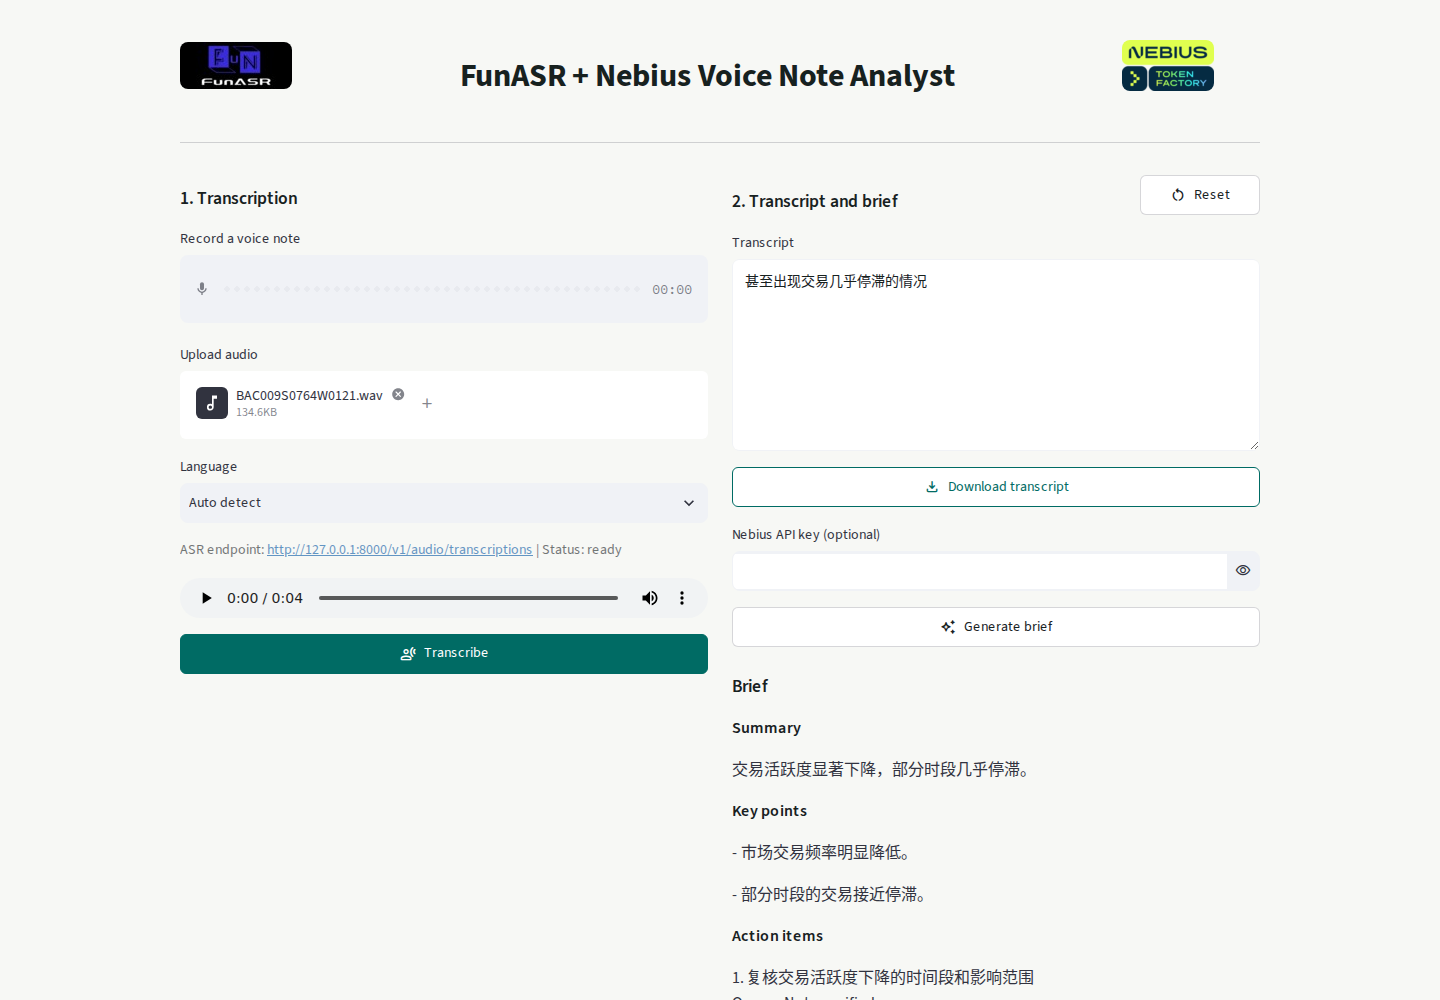
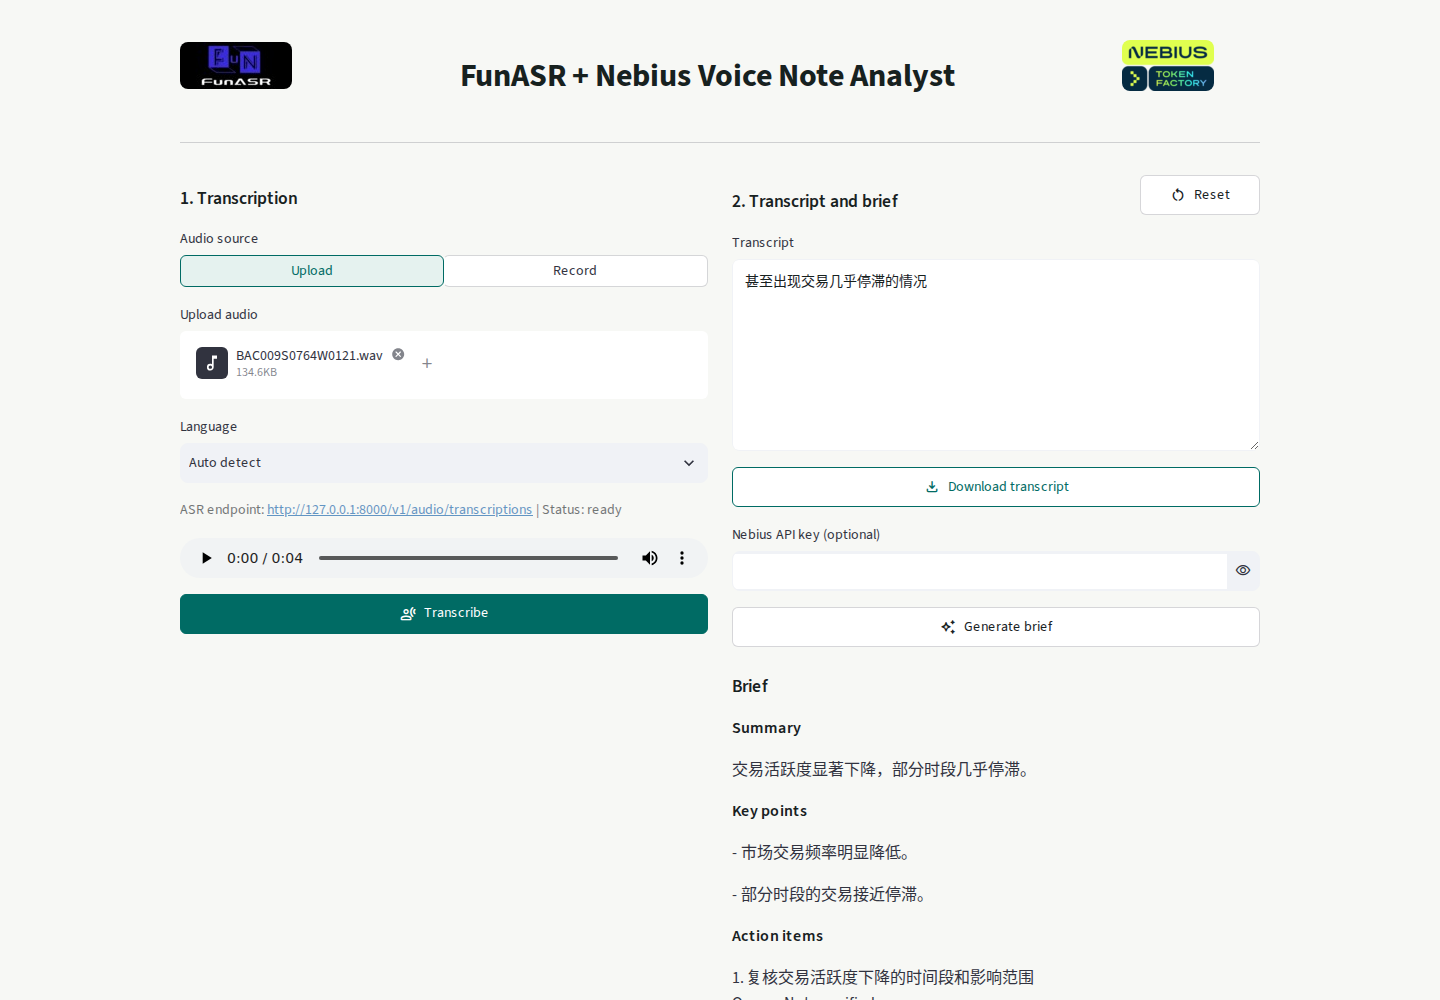
fix(voice): resolve final review follow-ups

diff --git a/voice_agents/funasr_nebius_voice_note_analyst/app.py b/voice_agents/funasr_nebius_voice_note_analyst/app.py
@@ -124,6 +124,11 @@ st.markdown(
         background: var(--teal);
         border-color: var(--teal);
     }
+    button[data-variant="segmented_control"][aria-checked="true"] {
+        background: #e5f2ef !important;
+        border-color: var(--teal) !important;
+        color: var(--teal) !important;
+    }
     [data-testid="stDownloadButton"] button {
         border-color: var(--teal);
         color: var(--teal);
@@ -175,8 +180,7 @@ def _clear_transcription() -> None:
     st.session_state["transcribed_audio_fingerprint"] = None
 
 
-def _audio_payload(uploaded: Any, recorded: Any) -> tuple[bytes, str, str | None] | None:
-    selected = uploaded if uploaded is not None else recorded
+def _audio_payload(selected: Any) -> tuple[bytes, str, str | None] | None:
     if selected is None:
         return None
     filename = getattr(selected, "name", None) or "recording.wav"
@@ -250,10 +254,18 @@ transcription_column, analysis_column = st.columns([1, 1], gap="large")
 
 with transcription_column:
     st.subheader("1. Transcription")
-    recorded_audio = st.audio_input("Record a voice note")
-    uploaded_audio = st.file_uploader("Upload audio", type=AUDIO_TYPES)
+    audio_source = st.segmented_control(
+        "Audio source",
+        ["Upload", "Record"],
+        default="Upload",
+        width="stretch",
+    )
+    if audio_source == "Record":
+        selected_audio = st.audio_input("Record a voice note")
+    else:
+        selected_audio = st.file_uploader("Upload audio", type=AUDIO_TYPES)
     selected_language = st.selectbox("Language", list(LANGUAGES))
-    audio_payload = _audio_payload(uploaded_audio, recorded_audio)
+    audio_payload = _audio_payload(selected_audio)
     audio_fingerprint = (
         hashlib.sha256(audio_payload[0]).hexdigest() if audio_payload is not None else None
     )

diff --git a/voice_agents/funasr_nebius_voice_note_analyst/tests/test_app_smoke.py b/voice_agents/funasr_nebius_voice_note_analyst/tests/test_app_smoke.py
@@ -182,3 +182,21 @@ def test_changed_audio_clears_old_output_and_provider_failures_are_isolated(monk
     assert app.session_state["transcript_editor"] == "Initial transcript"
     assert app.session_state["brief"] is None
     assert any(error.value == "Safe Nebius failure" for error in app.error)
+
+
+def test_switching_audio_source_hides_inactive_input_and_clears_output():
+    app = AppTest.from_file(str(APP_PATH)).run(timeout=20)
+
+    assert app.segmented_control[0].value == "Upload"
+    assert len(app.file_uploader) == 1
+    app.file_uploader[0].set_value(("note.wav", b"first-audio", "audio/wav")).run()
+    button(app, "Transcribe").click().run(timeout=20)
+    assert app.session_state["transcript_editor"] == "Initial transcript"
+
+    app.segmented_control[0].set_value("Record").run(timeout=20)
+
+    assert app.segmented_control[0].value == "Record"
+    assert len(app.file_uploader) == 0
+    assert app.session_state["transcript_editor"] == ""
+    assert app.session_state["brief"] is None
+    assert app.session_state["transcribed_audio_fingerprint"] is None

diff --git a/voice_agents/funasr_nebius_voice_note_analyst/README.md b/voice_agents/funasr_nebius_voice_note_analyst/README.md
@@ -34,6 +34,15 @@ The canonical server exposes `POST /v1/audio/transcriptions`. Use `--device cpu`
 
 For remote deployments, place the FunASR server behind an authenticated TLS gateway and set `FUNASR_API_KEY` for that gateway. Keep the Streamlit app private or protect it with access control; do not expose provider keys in URLs, source files, or browser-visible configuration.
 
+Set an upload limit appropriate for voice notes and enforce the same or a lower request-body limit at the gateway. For example, `.streamlit/config.toml` can cap each upload at 50 MB:
+
+```toml
+[server]
+maxUploadSize = 50
+```
+
+Rate-limit upload and transcription routes at the gateway as well. This bounds repeated hashing and provider requests when the app is exposed to multiple users.
+
 ## Install And Run
 
 ```bash
@@ -94,6 +103,8 @@ uv run ruff format --check .
 ```
 
 The suite covers settings validation, FunASR multipart and error contracts, Nebius structured output parsing, secret-safe failures, and the stateful Streamlit transcription, editing, analysis, audio-change, and reset flows. Real endpoint validation uses FunASR 1.3.14 with SenseVoice on an NVIDIA H100.
+
+The repository intentionally ignores `uv.lock`. The validation matrix resolved the direct toolchain to `streamlit==1.59.2`, `openai==2.45.0`, `httpx==0.28.1`, `pydantic==2.13.4`, `python-dotenv==1.2.2`, `pytest==9.1.1`, and `ruff==0.15.21`. Pin these versions in a deployment image when reproducible rebuilds are required.
 
 ## References
 